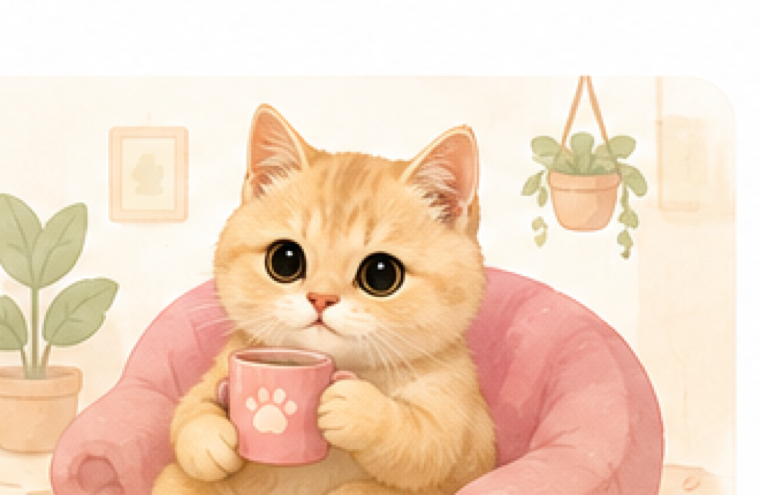
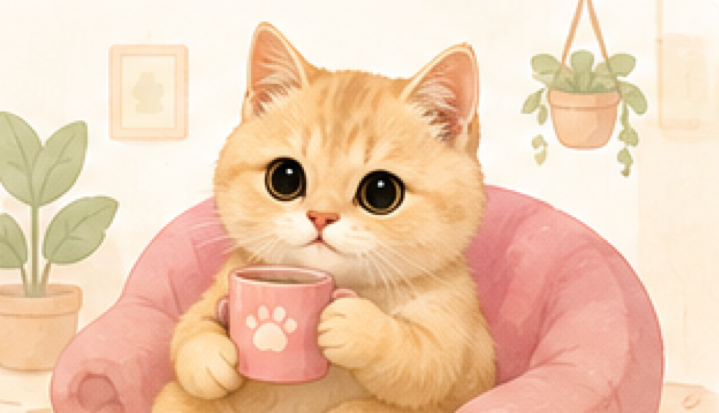
fix(ui):替换空状态手动裁剪插画

diff --git a/app.py b/app.py
@@ -3229,7 +3229,7 @@ INDEX_HTML = r'''<!doctype html>
     }
     .empty-hero {
       width: min(640px, 100%);
-      height: clamp(200px, 20vw, 270px);
+      height: clamp(220px, 22vw, 300px);
       justify-self: center;
       display: block;
       object-fit: cover;
@@ -3536,7 +3536,7 @@ INDEX_HTML = r'''<!doctype html>
       }
       .empty-hero {
         width: min(560px, 100%);
-        height: 205px;
+        height: 220px;
       }
       .prompt-grid {
         grid-template-columns: repeat(2, minmax(0, 1fr));
@@ -3567,7 +3567,7 @@ INDEX_HTML = r'''<!doctype html>
         font-size: 34px;
       }
       .empty-hero {
-        height: 168px;
+        height: 190px;
         border-radius: 22px;
       }
       .prompt-grid {
@@ -4039,7 +4039,7 @@ INDEX_HTML = r'''<!doctype html>
         <div class="brand">
           <img class="brand-avatar" src="/res/meimei-avatar.png" alt="槑槑头像">
           <div class="brand-copy">
-            <h1>AI槑槑 <span class="app-version">v2.2.11</span></h1>
+            <h1>AI槑槑 <span class="app-version">v2.2.12</span></h1>
             <span id="health">连接中</span>
           </div>
         </div>
@@ -5469,7 +5469,7 @@ INDEX_HTML = r'''<!doctype html>
 	      const box = $("messages");
 	      box.innerHTML = `
 	        <div class="empty">
-	          <img class="empty-hero" src="/res/meimei-empty-state-cropped.png" alt="槑槑欢迎插画">
+	          <img class="empty-hero" src="/res/meimei-empty-state.png" alt="槑槑欢迎插画">
 	          <div class="empty-copy">
 	            <div class="empty-kicker">家庭 AI 助手 · 槑槑在这里</div>
 	            <h2>你好，我是槑槑 🐾</h2>

diff --git a/CHANGELOG.md b/CHANGELOG.md
@@ -1,5 +1,9 @@
 # 变更记录
 
+## 2.2.12 - 2026-06-14
+
+- 使用手动裁剪后的槑槑空状态插画，替换此前自动裁切版本。
+
 ## 2.2.11 - 2026-06-14
 
 - 加密槑槑小记首页背景文字铺排，提升背景纹理存在感。

diff --git a/README.md b/README.md
@@ -2,7 +2,7 @@
 
 AI槑槑 是一个自用轻量 AI 平台，使用 Python 标准库和 SQLite 实现。项目保持单文件应用形态，无 Docker、无前端框架、无外部 Python 依赖。
 
-当前版本：`2.2.11`
+当前版本：`2.2.12`
 
 ## 目录说明
 